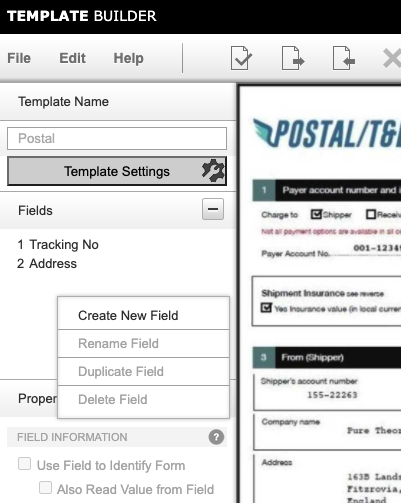
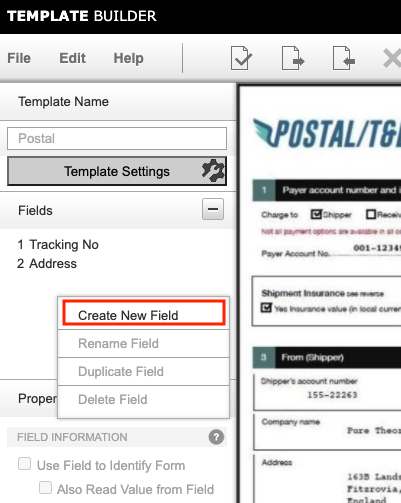
[TUT-49048] DW - NG SimulScan Template Builder

Changed region(s): [[0.1496, 0.5964, 0.5686, 0.6561]]

diff --git a/src/datawedge/8-2/guide/templatebuilder/index.md b/src/datawedge/8-2/guide/templatebuilder/index.md
@@ -7,7 +7,7 @@ productversion: "8.2"
 
 ## Overview
 
-Template Builder is a web-based tool for creating templates, which define the information captured by DataWedge's [Document Capture](../input/barcode/#documentselectiondocumentcapturedocumentcapture) feature (part of NextGen (NG) SimulScan) and determine how it will be processed and made available to DataWedge. [NG SimulScan](../input/barcode/#nextgensimulscanconfiguration) is a data capture solution for retrieving data from documents, forms, and labels by scanning barcodes or capturing partial or entire documents as images. Templates are the key to controlling NG SimulScan data capture features and for processing the acquired data so it can be consumed by an application. Each template is associated with a target document (e.g. shipping receipt, part label) to capture and process as part of a workflow.
+Template Builder is a web-based tool for creating templates, which define the information acquired from the DataWedge feature [Document Capture](../input/barcode/#documentselectiondocumentcapturedocumentcapture) and determine how it will be processed and made available for consumption by applications. Document Capture, as part of [NextGen (NG) SimulScan](../input/barcode/#nextgensimulscanconfiguration), is a data capture solution for retrieving data from documents, forms, and labels by scanning barcodes or capturing partial or entire documents as images. Templates are the key to controlling Document Capture features and for processing the acquired data so it can be consumed by an application. Each template is associated with a target document (e.g. shipping receipt, part label) to capture and process as part of a workflow.
 
 This guide provides step-by-step instructions for using the interface of Template Builder to [create Templates](#usingtemplatebuilder) and deploy them to devices.
 
@@ -29,7 +29,7 @@ Before attempting to create a Template, the following assets are required:
 * **Sample(s) of the Document(s)** (forms, labels, etc.) for which the Template(s) are being created
 * **Photos or image scans** of those same documents (for upload)
 * An **account on the [Template Builder web site](https://ng-simulscan.zebra.com)**
-* **Camera or 2D Imager is selected under [Scanner Selection](../input/barcode/#scannerselection) in the DataWedge profile** of the Template
+* **Camera or 2D Imager is selected under [Scanner Selection](../input/barcode/#scannerselection) in the DataWedge profile** for the Template
 * A familiarity with [Template concepts](#abouttemplates)
 
 ---
@@ -38,7 +38,7 @@ Before attempting to create a Template, the following assets are required:
 
 Most acquisition tasks involve capturing data from printed documents, forms or labels. These "target" documents often vary in size, shape and layout, and present a challenge for accurate data acquisition. Templates solve this problem by "teaching" NG SimulScan about the documents it will encounter, and defining how to scan and process data for each instance of that target document.
 
-<img style="height:550px" src="form-regions.png" />
+<img alt="" style="height:550px" src="form-regions.png" />
 
 _Sample document showing Form Region of Interest and Field Region(s) of Interest / Fields_
 
@@ -73,20 +73,11 @@ Field Types supported for Image Capture:
 * **Barcode -** scan single or multiple barcodes in the field of view
 * **Picture -** capture signature(s), photo(s), or entire document(s) as an image.
 
-<img style="height:450px" src="template.png"/>
+<img alt="" style="height:450px" src="template.png"/>
 _Example of an Image Capture-type document_.
 
 For example, a company that uses a fixed-format form such as the Postal/T&L example (shown above) would create an Image Capture template to identify the location of each field to be captured and the type of data to be processed from each identified field.
 <br>
-
-<!--
-**Notes**:
-
-* **Zebra recommends using the camera for Mixed Data-type** capture.
-* The camera is automatically selected when a Mixed Data-type Template is used.
-* Structured Templates are generally associated with Mixed Data-type mode.
-<br>
--->
 
 ### MultiBarcode
 
@@ -105,23 +96,9 @@ Field Type supported for MultiBarcode:
 
 * **Barcode -** scan single or multiple barcodes in the field of view
 
-<img style="height:350px" src="msi_reader.png"/>
+<img alt="" style="height:350px" src="msi_reader.png"/>
 _Example of a MultiBarcode form._
 <br>
-
-<!--
-<img style="height:250px" src="AIAG B-10 Label File P, Q, K, V, 4S.jpg"/>
-_Example of a Multi-Barcode form_.
--->
-
-<!--
-
-**Notes**:
-
-* **Zebra recommends using the 2D imager for capturing in Multi-barcode mode**.
-* The device imager is automatically selected for Barcode-only Templates.
-* All [Zebra devices that support SimulScan](../about/#supporteddevices) are equipped with 1D/2D imagers (except early TC70 models).
--->
 
 For example, a company that receives regular shipments accompanied with a label (like the one above) could create a MultiBarcode Template to map the part number and supplier number from the barcodes in the upper row, and the quantity-received information from the lower row to the corresponding fields of an application.
 
@@ -137,11 +114,12 @@ Below is a summary of the steps for creating a Template. The process is explaine
 
 1. **Log in** to the [Template Builder web site](https://ng-simulscan.zebra.com).
 2. **Select the Document Type** required and **upload an image** of the Target Document to be scanned (.bmp, .jpg, .png or .pdf; 5MB max.).
-3. **Identify Fields** of the Document and the data types (barcode, image) of each. **Configure Field and Template settings** where appropriate.
-4. **Validate the Template** to verify the Fields and properties are set properly.
-5. **Save and download** the completed Template(s) to the local host computer.
-6. **Copy or deploy Template(s) to the device** that will be performing the scans.
-7. **Use the Template** from within DataWedge.
+3. **Identify Fields** of the Document and the data types (barcode, image) of each. 
+4. **Configure Field and Template settings**.
+5. **Validate the Template** to verify the Fields and properties are set properly.
+6. **Save and download** the completed Template(s) to the local host computer.
+7. **Copy or deploy Template(s) to the device** that will be performing the scans.
+8. **Configure DataWedge** to setup the data so it can be consumed by the application. 
 
 ---
 
@@ -150,7 +128,7 @@ Below is a summary of the steps for creating a Template. The process is explaine
 Visit the **[Zebra NG SimulScan registration page](https://signup.zebra.com/register.html?appId=SIMS).** Follow prompts to create a free account and enter all requested information. Once an account is created, Zebra administrators will send login information to the registered address. Zebra recommends planning ahead; this process could take several days.
 
 In a browser, go to the **NG SimulScan Template Builder site: [ng-simulscan.zebra.com](https://ng-simulscan.zebra.com)**. Enter the login credentials. A screen appears similar to the image below:
-<img style="height:400px" src="login.png"/>
+<img alt="" style="height:400px" src="login.png"/>
 _Template Builder login screen_
 <br>
 
@@ -161,7 +139,7 @@ _Template Builder login screen_
 
 ---
 
-### 2. Upload Image for Template
+### 2. Upload Image for Template and Create Fields
 
 Prior to uploading the image for the template, make sure the image was taken with the document placed flat against a constrasting background with the camera perpendicular to the surface, and make sure the image was captured without any shape distortion.
 
@@ -177,16 +155,17 @@ To upload the image for the template:
     * **Max. file size:** 5MB
     * **MP size:** 2 MP for MultiBarcode or 3 MP for Image Capture
    For a .pdf, select page number from the drop-down (if necessary) <br>
-   Confirm that the **AutoCrop** feature (enabled by default) has accurately identified the Document boundaries. If boundary adjustments are necessary, click **Disable AutoCrop** and set the blue bounding box so that it is just outside the borders of the Document. Click **OK** when done. This creates the "Form Region of Interest" for the Document.
-3. After saving the new Template, the uploaded image appears. **Create the Field Regions of Interest, also known as Fields,** by using the mouse cursor crosshair to drag a box from the <u>upper-left corner to the lower-right corner</u> over each region of the Document that contains data to be acquired. Field restrictions:
+   Confirm that the **AutoCrop** feature (enabled by default) has accurately identified the Document boundaries. If boundary adjustments are necessary, click **Disable AutoCrop** and set the blue bounding box so that it is just outside the borders of the Document. 
+3. Click **OK** when done. The "Form Region of Interest" for the Document is created. After saving the new Template, the uploaded image appears. 
+4. **Create the Field Regions of Interest, also known as Fields,** by using the mouse cursor crosshair to drag a box from the <u>upper-left corner to the lower-right corner</u> over each region of the Document that contains data to be acquired. Field restrictions:
     * **Image Capture:** maximum of 3 Fields
     * **MultiBarcode:** maximum of 20 Fields
-        * **Auto Group Identification:** If one of the MultiBarcode Fields is set with **Auto Group Identification**, this restricts the maximum Fields to 10 for MultiBarcode. _Only 1 Field can be set with **Auto Group Identification**._ If more than 1 Field is set, an error will occur.
+        * **Auto Group Identification:** If one of the MultiBarcode Fields is set with **Auto Group Identification**, this restricts the maximum Fields to 10. _Only 1 Field can be set with **Auto Group Identification**._ If more than 1 Field is set, an error will occur.
 
 **NOTE: Barcode Regions must <u>include only the bars and spaces</u>** - no surrounding characters should be included.
 
-<img style="height:550px" src="create-template.png" />
-_Upload sample image and designate Fields._
+<img alt="" style="height:550px" src="create-template.png" />
+_Example uploading image and designating Fields for Image Capture._
 <br>
 
 **Alternative ways to create Fields**:
@@ -194,8 +173,8 @@ _Upload sample image and designate Fields._
 * From the menu, select **Edit > Create New Field**. Enter a name for the field and draw a box around the corresponding Region.
 * Right-click in the Fields panel and select **Create New Field**. Enter a name for the field and draw a box around the corresponding Region.
 
-<img style="height:350px" src="create-new-field.png" />
-_Add a Field to the Template._
+<img alt="" style="height:350px" src="create-new-field.png" />
+_Add a Field to the Template by right-clicking in the Fields panel._
 <br>
 
 ---
@@ -211,7 +190,7 @@ Configure the following settings:
    * Field Settings - specific processing-mode settings (decoder type, decoder data options, image adjustments, etc.)
    Available options are described in the following subsections and differ depending on the Document Type: [Image Capture](#imagecapturefieldsettings) or [MultiBarcode](#multibarcodefieldsettings).
 2. **Template Settings -** Select the appropriate [Template Settings](#templatesettings) based on the document type: Image Capture or MultiBarcode. Any data related settings apply to all data from the Template.
-3. After configuring the settings, select **File > Save Template** to save the changes. **Save work often!** Unsaved changes could be lost if the screen is dismissed or a session timeout is reached.
+3. **Save the template** after configuring the settings, select **File > Save Template**. **Save work often!** Unsaved changes could be lost if the screen is dismissed or a session timeout is reached.
 
 <!--
 ![img](image6c.png)
@@ -228,7 +207,8 @@ The Field Properties panel is visible in the far-left column, and presents the P
 
 ##### Field Information
 
-* **Use Field to Identify Form -** designate the Field as an Anchor element, a unique attribute of a Document to positively identify it and determine its orientation relative to the scanner (ie. whether it is upside down). Anchor elements in a given Document remain in the same location and are fixed (do not change), such as a company logo or static text. Enabling this option aids in increasing the accuracy in reading the form in different conditions, e.g. lighting. \* **Also Read Value from Field -** sets the Template to acquire data from a Field that is designated as an Anchor element (**Use Field to Identify Form** is checked). Enabled by default.
+* **Use Field to Identify Form -** designate the Field as an Anchor element, a unique attribute of a Document to positively identify it and determine its orientation relative to the scanner (ie. whether it is upside down). Anchor elements in a given Document remain in the same location and are fixed (do not change), such as a company logo or static text. Enabling this option aids in increasing the accuracy in reading the form in different conditions, e.g. lighting. 
+    * **Also Read Value from Field -** sets the Template to acquire data from a Field that is designated as an Anchor element (**Use Field to Identify Form** is checked). Enabled by default.
   <br>
 
 ##### Field Type: Barcode (used to scan single or multiple barcodes)
@@ -246,6 +226,10 @@ The Field Properties panel is visible in the far-left column, and presents the P
         * **180° -** the barcode is upside down. 
         * **270° -** the barcode is rotated 270 degrees to the left (counterclockwise).
   <br>
+<img alt="" style="height:450px" src="fieldsettings-imagecapture-barcode.png" />
+_Image Capture Field Settings for Barcode._
+<br>
+
 
 ##### Field Type: Picture (used to capture signatures, photos, or entire documents as images)
 
@@ -261,10 +245,15 @@ The Field Properties panel is visible in the far-left column, and presents the P
     * **180° -** the barcode is upside down
     * **270° -** the barcode is rotated 270 degrees to the left (counterclockwise)
   <br>
+<img alt="" style="height:450px" src="fieldsettings-imagecapture-picture.png" />
+_Image Capture Field Settings for Picture._
+<br>
 
 ---
 
 #### MultiBarcode Field Settings
+
+MultiBarcode is _restricted to a maximum of 20 Fields._ If one of the MultiBarcode Fields is set with **Auto Group Identification**, this restricts the maximum Fields to 10. _Only 1 Field can be set with **Auto Group Identification**._ If more than 1 Field is set, an error will occur.
 
 ##### Field Information
 
@@ -276,64 +265,34 @@ The Field Properties panel is visible in the far-left column, and presents the P
 * **Auto Group Identification -** rather than defining the decode data options of the group (e.g. Starts With or Contains), NG SimulScan can automatically group (n) number of barcodes when a common pattern is detected, such as same decoder, same first 1 or 2 characters of data, and same string length. _Restricted to a maximum of 10 Fields per group._ The quantity (n) of the group of common barcodes is not fixed; the quantity will change but is dictated by one of the following quantity options:
     * **Barcode -** a separate mandatory “Quantity Barcode”, specifying the quantity of barcodes to capture, must be present on the Document along with the data barcode. The Quantity Barcode must: 1) start with the letter "Q" or "q", and 2) barcode length must be 3 digits or less.
     * **Return quantity barcode data with results -** the quantity of barcodes is output along with the scanned barcode data
-    * **User/System Defined -** set the quantity through the DataWedge UI or DataWedge intent API. ?? [add link to DW docs]
+    * **User/System Defined -** set the quantity through the DataWedge UI under [Template params](../input/barcode/#eautogroupidentification) or with DataWedge [SetConfig](../api/setconfig) intent API by setting common_barcode_dynamic_quantity to the desired quantity.
 * **Barcode Type -** select the barcode decoder. Zebra recommends to select the appropriate decoder to filter out other symbologies and prevent them from being scanned, thus improving performance. If the decoder is not known, select ANY_BARCODE. If a specific decoder is selected, the corresponding decoder options are displayed.
 * **Enable Character Checking -** uses the barcode data to aid in identification of the barcode with the following option(s):
     * **Starts With -** enter character(s) to check for barcodes that begin with the specified character(s) of the acquired barcode data. Leave blank if not needed.
     * **Contains -** Enter character(s) to accept barcodes that contain the specified character(s)
     * **String Length -** Enter the number of characters the barcode data must contain. Leave blank if not needed.
 
----
+<img alt="" style="height:450px" src="fieldsettings-multibarcode.png" />
+_MultiBarcode Field Settings._
+<br>
 
-<!--
-#### Barcode Options
-Some barcode options vary based on the decoder selected. For a complete list of options, see the [DataWedge Decoders guide](../../../../datawedge/6-0/guide/decoders/).
-
-#### Decode Data Options
-
-**Enable Character Checking -** enables the barcode data to assist in the identification or verification of the barcode data being decoded. When selected, the following options become available:
- * **Starts With...** checks for the specified character(s) starting with the first character (index 0) of the acquired barcode data.
- * **Contains -** checks for the specified character(s) in the acquired data starting at the index specified in the "at" field (index 0 = the first character).
- * **String Length -** the number of characters the barcode data must contain. Leave blank to leave length unspecified.
-
-**Field settings:**
-* **Barcode Type -** select the barcode decoder. Zebra recommends to select the decoder, if known, to filter out other symbologies and prevent them from being scanned.  If the decoder is not known, select ANY_BARCODE.
-* **Enable Character Checking -** Enable this to use the barcode data to aid in identification of the barcode with the following option(s):
-    * **Starts With -** Enter character(s) to filter barcodes that must begin with the specified character(s). Leave this field blank if not needed.
-    * **Contains -** Enter character(s)
-    * **String Length -** Enter the number of characters the barcode data must contain.
-
-**Barcode Orientation -**sets the orientation of the barcode relative to the scanner:
-
-* **0° -** the barcode is right-side up on the form.
-* **90° -** the barcode is rotated 90 degrees to the left (counterclockwise).
-* **180° -** the barcode is upside down.
-* **270° -** the barcode is rotated 270 degrees to the left (counterclockwise).
-
-Orientation must be consistent across the entire Document.
-
-_**Different or additional Field Property settings appear under certain conditions**_.
-
------
--->
+------
 
 #### Template Settings
 
 The Template Settings panel is used to configure settings such as form identifier, output, image correction and other settings that apply generally across the Template.
 
 **To access the Template Settings panel**:
-
 1. Log into the [Template Builder web site](https://ng-simulscan.zebra.com).
 2. Open the Template in need of settings adjustment.
 3. Click on **Template Settings** or from the top menu select **Edit > Template Settings.**
 4. Adjust settings as needed according to descriptions that follow depending on the Document Type of the Template.
-   <!-- ![img](image32.png) -->
-   <br>
+<br>
 
 ##### Image Capture Template Settings
 
 * **Form Identifier -** determines how the form is identified, based on the presence of:
-    * **Border -** detects if the form has an enclosed border; a border line is present, enclosing the contents of the form
+    * **Border -** detects if the form has an enclosed border; a border line is present, enclosing the contents of the form. The form must have black borders surrounding all four sides or be bordered by a contrasting background, otherwise the document cannot be captured.
     * **Anchor Barcode -** detects for the presence of an Anchor Barcode, a barcode that is located in a fixed location across different types of the same form (yet can contain different data). Other Fields on the form (e.g. signature, address) are output as cropped images.
 
 * **Output Entire Form -** output the entire form as an image, along with the extracted data. Enabling this option affects scanning performance.
@@ -343,6 +302,10 @@ The Template Settings panel is used to configure settings such as form identifie
 
 * **Reset all Settings -** reset all template settings to the default settings.
   <br><br>
+
+<img alt="" style="height:450px" src="templatesettings-imagecapture.png" />
+_Template Settings for Image Capture._
+<br>
 
 ##### MultiBarcode Template Settings
 
@@ -357,13 +320,8 @@ The Template Settings panel is used to configure settings such as form identifie
     <li><b>High -</b> mount amount of time to scan for optional barcodes. For example, 20 barcodes or less are present on the form and the barcodes are located far from each other, requiring the device to be physically moved significantly while aiming to capture each barcode.</li>
     </ul>
 
-<!--
-![img](image6b.png)
-<br>
-
-![img](image6d.png)
-<br>
--->
+<img alt="" style="height:450px" src="templatesettings-multibarcode.png" />
+_Template Settings for MultiBarcode._
 
 ---
 
@@ -390,7 +348,7 @@ A Validation Summary is displayed with one of more of the following messages:
 * (√) = "Success!"
 * (X) = "Error!"
 
-<img style="250px" src="validation_success.png" />
+<img alt="" style="250px" src="validation_success.png" />
 _Validation Summary showing success._
 <br>
 
@@ -402,7 +360,7 @@ Following validation, test results can be reviewed by clicking on **View Preview
 
 The image below shows a validation preview. Clicking on any Field in the image area displays in the left-hand column the data that is parsed by that Field.
 
-![img](validation-preview.png)
+<img alt="" style="350px" src="validation-preview.png" />
 _Validation Preview of an Image Capture sample._
 
 <!-- ![img](validation_failure.png)
@@ -450,11 +408,10 @@ Once downloaded, the Template can be deployed to mobile computer devices.
 
 **Methods of Template Deployment**:
 
-* **Manually via USB** cable to the device using the Android Debug Bridge (ADB), copy the .XML file to `/enterprise/device/settings/datawedge/templates/`.
-* **Remotely using [StageNow](../../../../stagenow)** and the [UI Manager](/mx/uimgr/) service
-* Remotely through a company's own mobile device management (MDM) system (if supported by that system)
+* **Manually via USB** cable to the device using the Android Debug Bridge (ADB), copy the .XML file to `/enterprise/device/settings/datawedge/templates/`.  ?? Is further action required or is the Template automatically imported to DataWedge?
+* **Remotely using [StageNow](../../../../stagenow)** and the [UI Manager](/mx/uimgr/) service.
+* Remotely through a company's own mobile device management (MDM) system (if supported by that system).
 * **[DataWedge Mgr CSP](/mx/datawedgemgr)** enables secure mass deployment of templates. Refer to:
-    * [Document Capture](../input/barcode/#decoderselection), DataWedge's equivalent of Image Capture
     * [Import NextGen SimulScan Templates](../admin/#importnextgensimulscantemplates)
     * [NG SimulScan Template Action](/mx/datawedgemgr/#ng-simulscan-template-action)
 
@@ -462,9 +419,15 @@ Once downloaded, the Template can be deployed to mobile computer devices.
 
 ### 6. Configure DataWedge
 
-Camera or 2D Imager is selected under Scanner Selection in the DataWedge profile of the Template.
-
-NG SimulScan is configured properly in DataWedge.
+Configure the DataWedge profile for the Template as follows:
+* Ensure Camera or 2D Imager is selected under [Scanner Selection](../input/barcode/#scannerselection).
+* [NextGen SimulScan Configuration](../input/barcode/#nextgensimulscanconfiguration) is configured properly.
+    * **[Document Selection](../input/barcode/#documentselectiondocumentcapture)** displays the desired Template file.
+    * **[Scanning Mode](../input/barcode/#scanningmodes)** is set to MultiBarcode or Document Capture, depending on the template in use.
+    * If known, select the appropriate **[Decoders](../input/barcode/#decoderselection)** and corresponding parameters to improve scanning performance.
+    * For MultiBarcode templates, set the desired **[MultiBarcode Params](../input/barcode/#multibarcodeparams)**.
+    * Set other parameters as needed, e.g. UPC/EAN params, Reader params, etc.
+The Template is ready to be used. 
 
 ---
 
